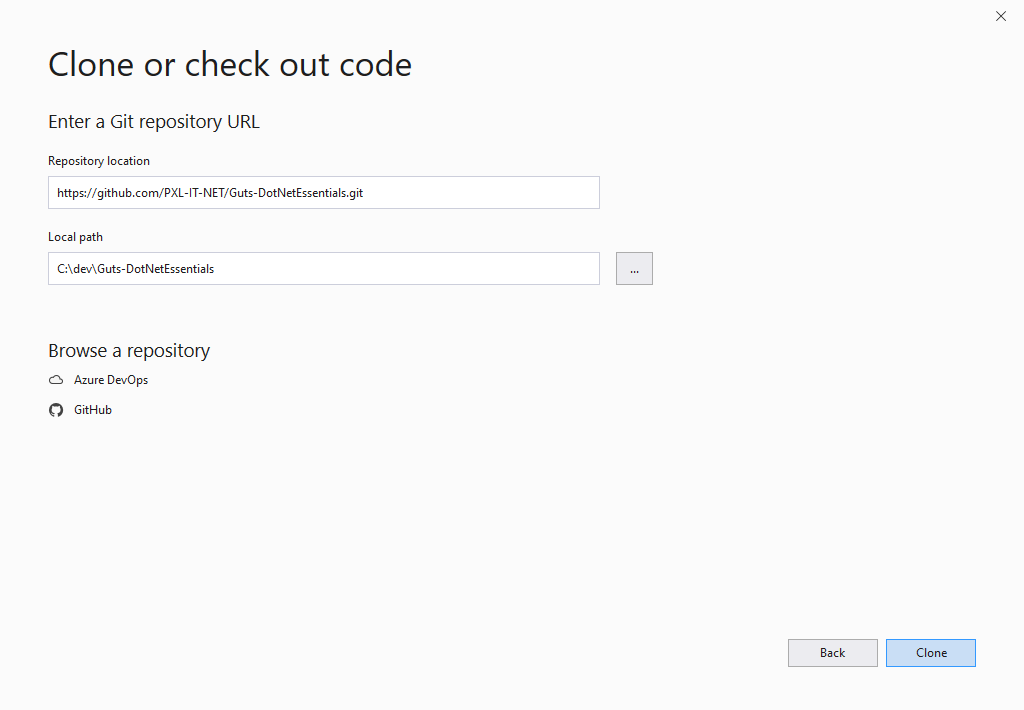
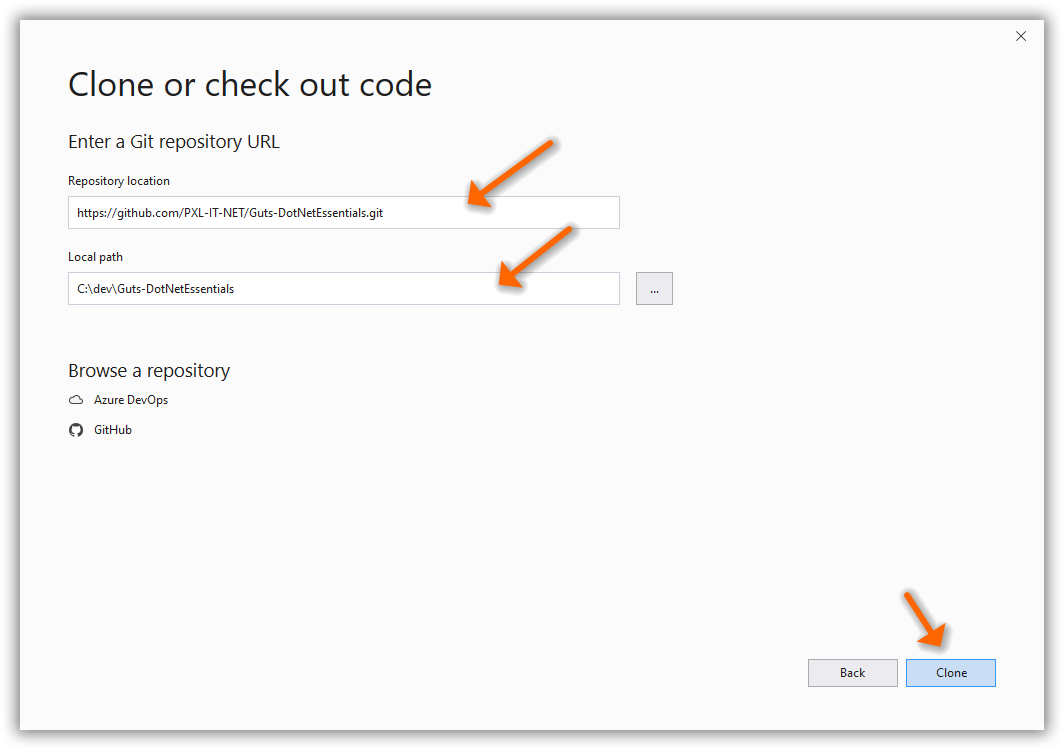
Update Readme
New screenshots
Remove dependency on Github addin

Changed region(s): [[0.0, 0.0, 1.0, 0.9915], [0.5938, 0.3408, 0.625, 0.4028]]

diff --git a/README.md b/README.md
@@ -12,13 +12,13 @@ A chapter solution contains multiple projects:
 
 ![alt text][img_projects]
 
-The WPF solutions are empty and waiting for you to complete them.
+The WPF projects are (mostly) empty and waiting for you to complete them.
 The matching test projects contain **automated tests** that can be run to check if your solution is correct.
 
 ## Getting Started
 
 First you need to clone the files in this repository on your local machine.
-You will use the Visual Studio **git** functionalities to accomplish this.
+You will use the Visual Studio **git** capabilities to accomplish this.
 
 ### Clone the repository
 
@@ -39,7 +39,7 @@ Now you have a local copy of the online repository in which you can complete you
 
 ![alt text][img_cloned_repo_overview]
 
-By clicking the icon "Switch Views", you can select the solution that contains the chapter exercises you want to work on.
+By clicking the icon "Switch Views", you can select the solution that contains the chapter exercises you want to work on. Alternatively, you can just doubleclick a solution file (.sln) from an explorer window to start up Visual Studio with the solution opened up.
 
 ![alt text][img_switch_views]
 
@@ -49,12 +49,14 @@ To be able to send your tests results to the Guts servers you need to register v
 After registration you will have the credentials you need to succesfully run automated tests for an exercise.
 
 #### Start working on an exercise
+
 Let's assume you want to make exercise 5 of chapter 5.
-1. Open the solution in the folder "Chapter 5". You can do this by doubleclicking on the **.sln** file or by opening visual studio, clicking on *File -> Open -> Project/Solution...* and selecting the **.sln** file. Alternatively you can double click on the solution in the *Team Explorer* window.
+
+1. Open the solution in the folder "Chapter 5". You can do this by doubleclicking on the **.sln** file or by opening visual studio, clicking on *File &rightarrow; Open &rightarrow; Project/Solution...* and selecting the **.sln** file. Alternatively you can double click on the solution in the *Team Explorer* window.
 
 ![alt text][img_open_solution]
 
-2. **Build the solution** (Menu: Build -> Build Solution or Ctrl+Shift+B)
+2. **Build the solution** (Menu: Build &rightarrow; Build Solution or Ctrl+Shift+B)
 3. Locate the project "Exercise 5" and set it as your startup project
 
 ![alt text][img_startup_project]
@@ -62,32 +64,36 @@ Let's assume you want to make exercise 5 of chapter 5.
 4. Write the code you need to write
 
 #### Run the automated tests
+
 Let's assume you are working on exercise 5 of chapter 5.
-1. Open the *Test Explorer* window (Menu: Test -> Windows -> Test Explorer)
-2. In the top left corner, right click on the down arrow of the *group by* button and group the automated tests by project. (If you don't see any tests appearing, you probably should (re)build your solution)
+
+1. Open the *Test Explorer* window (Menu: Test &rightarrow; Test Explorer)
+2. In the top right corner, click on the *group by* button and make sure the automated tests are grouped by project (see the picture below). If you don't see any tests appearing, you probably should (re)build your solution.
 
 ![alt text][img_group_tests]
 
-3. Right click on the project that matches your exercise and click on *Run selected tests*
-4. The first time you run a test a popup may appear thats asks you to log in. You should fill in your credentials from [guts-web.pxl.be](https://guts-web.pxl.be).
+3. Right click on the project that matches your exercise and click on *Run* to execute the tests.
+4. The first time you run a test a popup may appear asking you to log in. You should fill in your credentials from [guts-web.pxl.be](https://guts-web.pxl.be).
 
 ![alt text][img_login_vs]
 
-###### FAQ 
+##### FAQ
+
 **Why won't my tests run?**
 
 The first time it can happen that you see the tests in the *Test Explorer* but if you run the tests, nothing happens. 
-Try to clean your solution (**Build -> Clean Solution**) and then to rebuild your solution (**Build -> Rebuild solution**).
+Try to clean your solution (**Build &rightarrow; Clean Solution**) and then to rebuild your solution (**Build &rightarrow; Rebuild solution**).
 
-**Why can't I see my testresults on the Guts website? Locally all my tests are green.**
+**Why can't I see my test results on the Guts website? Locally all my tests are green.**
 
-After the tests are runned, the testrunner will try to send your results to the server. In the *Output Window* you can see a log of the steps that are taken. 
+After the tests are run, the testrunner will try to send your results to the server. In the *Output Window* you can see a log of the steps that are taken.
 If anything goes wrong, you should be able to find more info in the *Output Window*.
 
-The test results will only be send to the server when you run all te tests of an exercise at once. If you run the tests one by one the results will not be sent to the servers.
+The test results will only be sent to the server when you run all te tests of an exercise at once. If you run the tests one by one the results will not be sent to the servers.
 
 #### Inspect the test results
-Tests that pass will be green. Tests that don't pass will be red. 
+
+Tests that pass will be green. Tests that don't pass will be red.
 
 The *name of the test* gives an indication of what is tested in the automated test.
 If you click on a test you can also read more detailed messages that may help you to find out what is going wrong.
@@ -97,6 +103,7 @@ If you click on a test you can also read more detailed messages that may help yo
 Although it is not a guarantee, having all tests green is a good indication that you completed the exercise correctly.
 
 #### Check your results online
+
 Test results of all students are sent to the Guts servers.
 You can check your progress and compare with the averages of other students via [guts-web.pxl.be](https://guts-web.pxl.be).
 Login, go to ".NET Essentials" in the navigation bar and select the chapter you want to view.
@@ -104,10 +111,11 @@ Login, go to ".NET Essentials" in the navigation bar and select the chapter you 
 ![alt text][img_chapter_contents]
 
 #### Save (commit) your work
-It could happen that the code in the online repository changes and that you need to pull (download) a new version of the start code in your local repository. 
+
+It could happen that the code in the online repository changes and that you need to pull (download) a new version of the start code in your local repository.
 The online repository does not contain your solutions. Pulling a new version of the code could result in you losing your work.
 
-To avoid this you should regularly commit (save) your work in your local git database. If you have commited your work an you pull a new version, git will be able to automatically merge your work with the online changes. 
+To avoid this you should regularly commit (save) your work in your local git database. If you have commited your work an you pull a new version, git will be able to automatically merge your work with the online changes.
 It is recommended to **do a git commit every time you complete an exercise**.
 
 - Go to *Team Explorer*
@@ -122,7 +130,8 @@ It is recommended to **do a git commit every time you complete an exercise**.
 - By clicking on the home icon you go back to the main view for this local repository
 
 #### Get a new version of the start code
-It could happen that the lectors fix bugs in the automated tests of the startcode or add new exercises and/or tests. 
+
+It could happen that the lecturers fix bugs in the automated tests of the startcode or add new exercises and/or tests.
 Follow the steps below to get the new version of the code:
 
 - Commit your work locally (see previous section)
